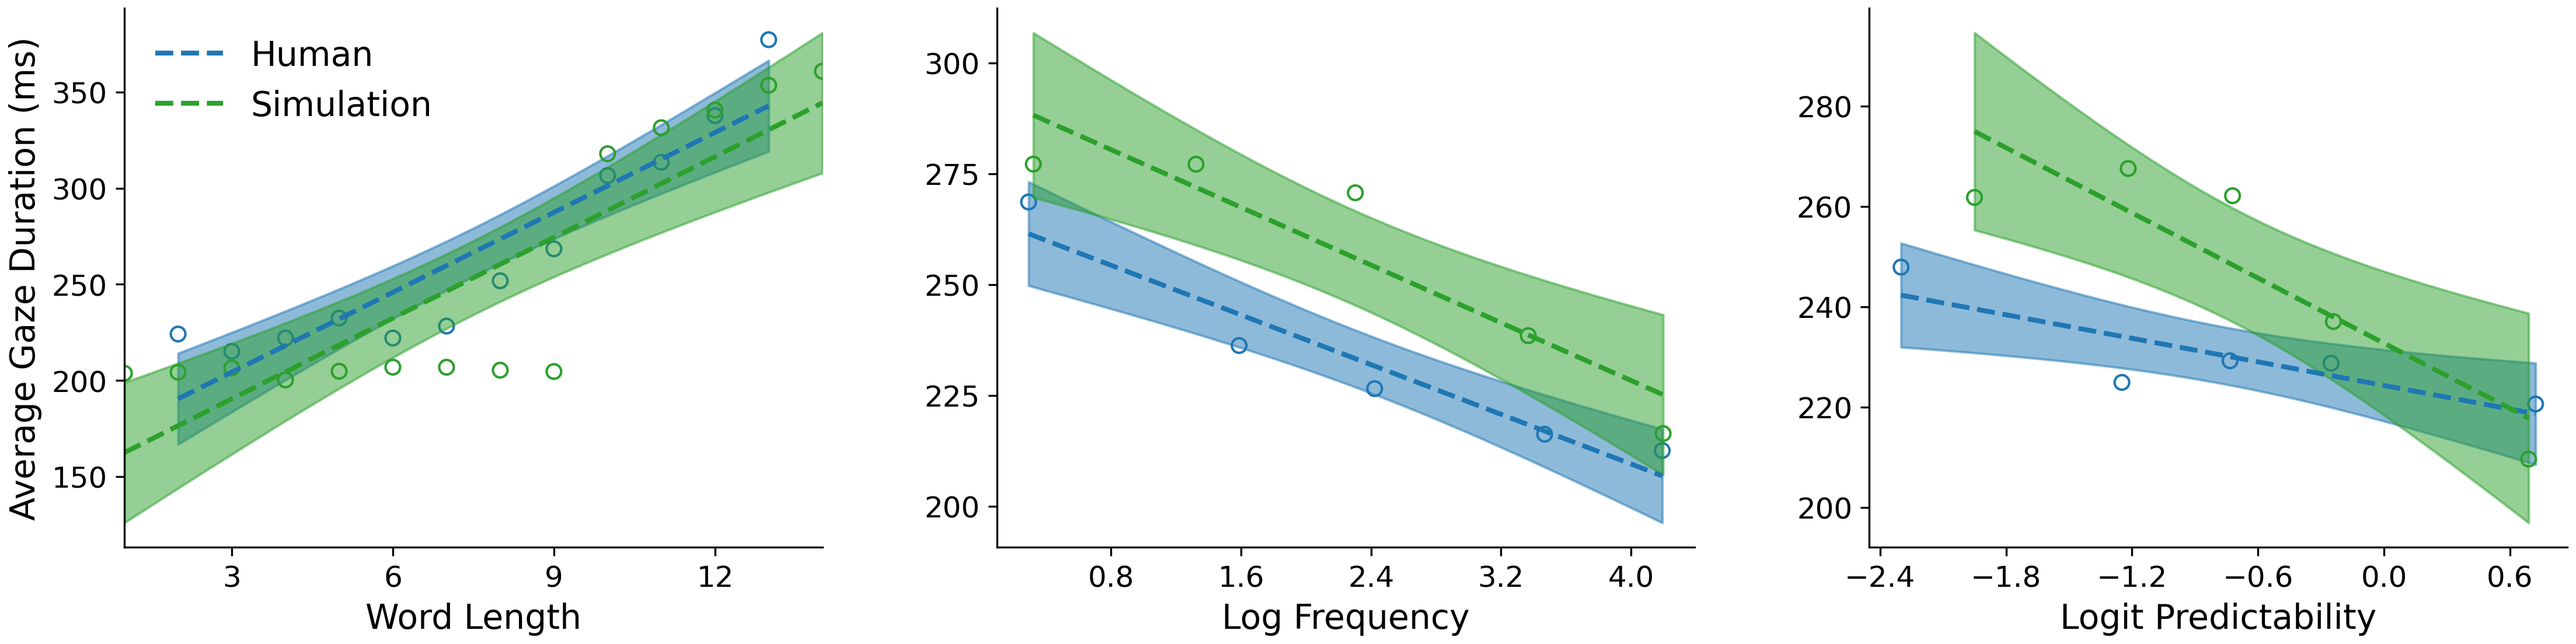
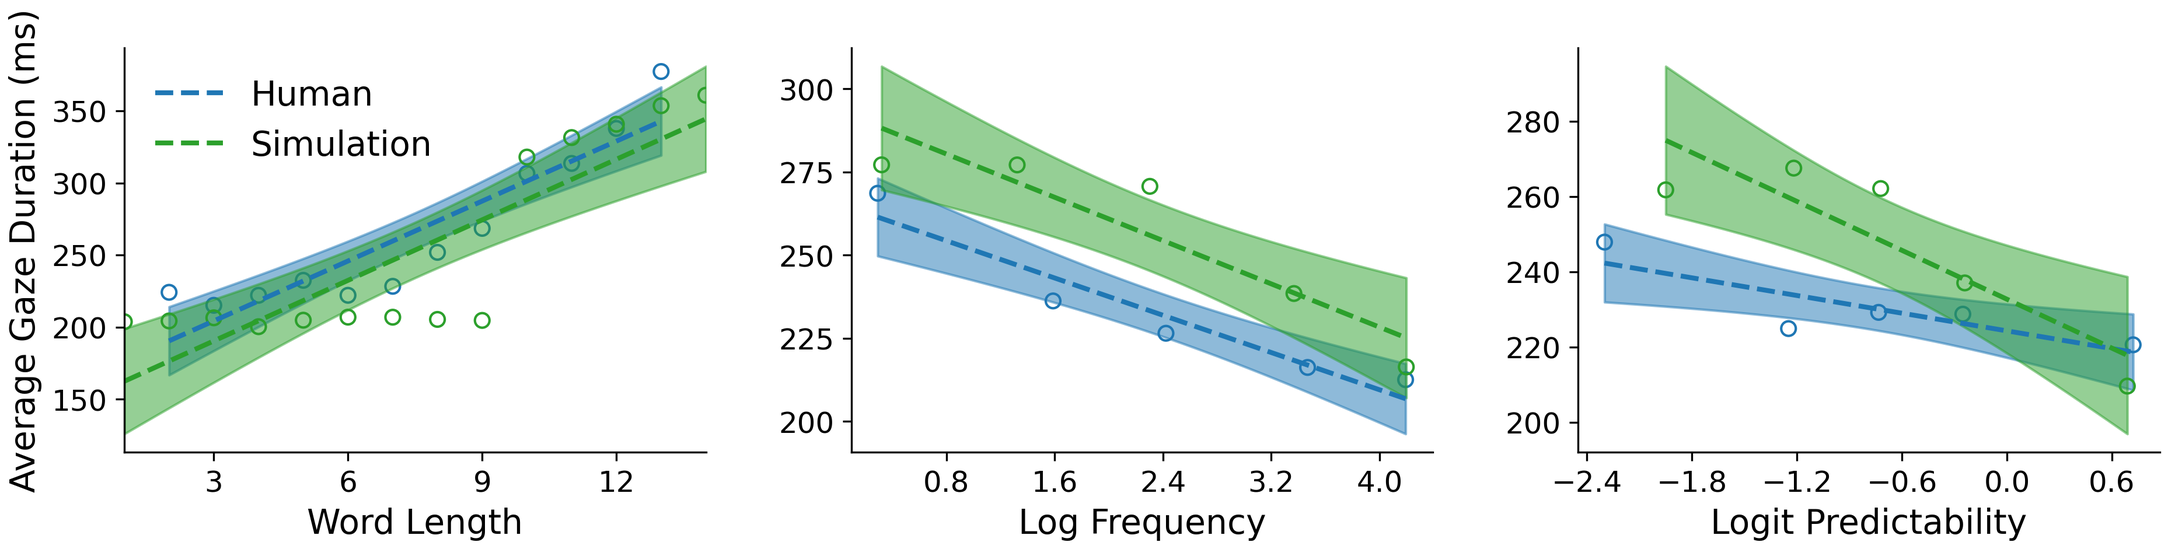
Plot >> Study 1. Word recognition. Change the figure size.

diff --git a/step5/modules/rl_envs/word_activation_v0218/parameter_inference/plot.py b/step5/modules/rl_envs/word_activation_v0218/parameter_inference/plot.py
@@ -31,8 +31,8 @@ MAX_Y_TICKS = 6
 # ---- Per-axes sizing controls ----
 # Define the desired width/height for each subplot (inches). This lets you keep
 # the SAME axes size even if you have 2, 3, or 4 panels.
-PANEL_AX_WIDTH_IN   = 6.0
-PANEL_AX_HEIGHT_IN  = 4.0
+PANEL_AX_WIDTH_IN   = 5.0
+PANEL_AX_HEIGHT_IN  = 3.0
 SUBPLOT_WSPACE      = 0.25  # relative spacing between subplots
 # ----------------------------------
 
